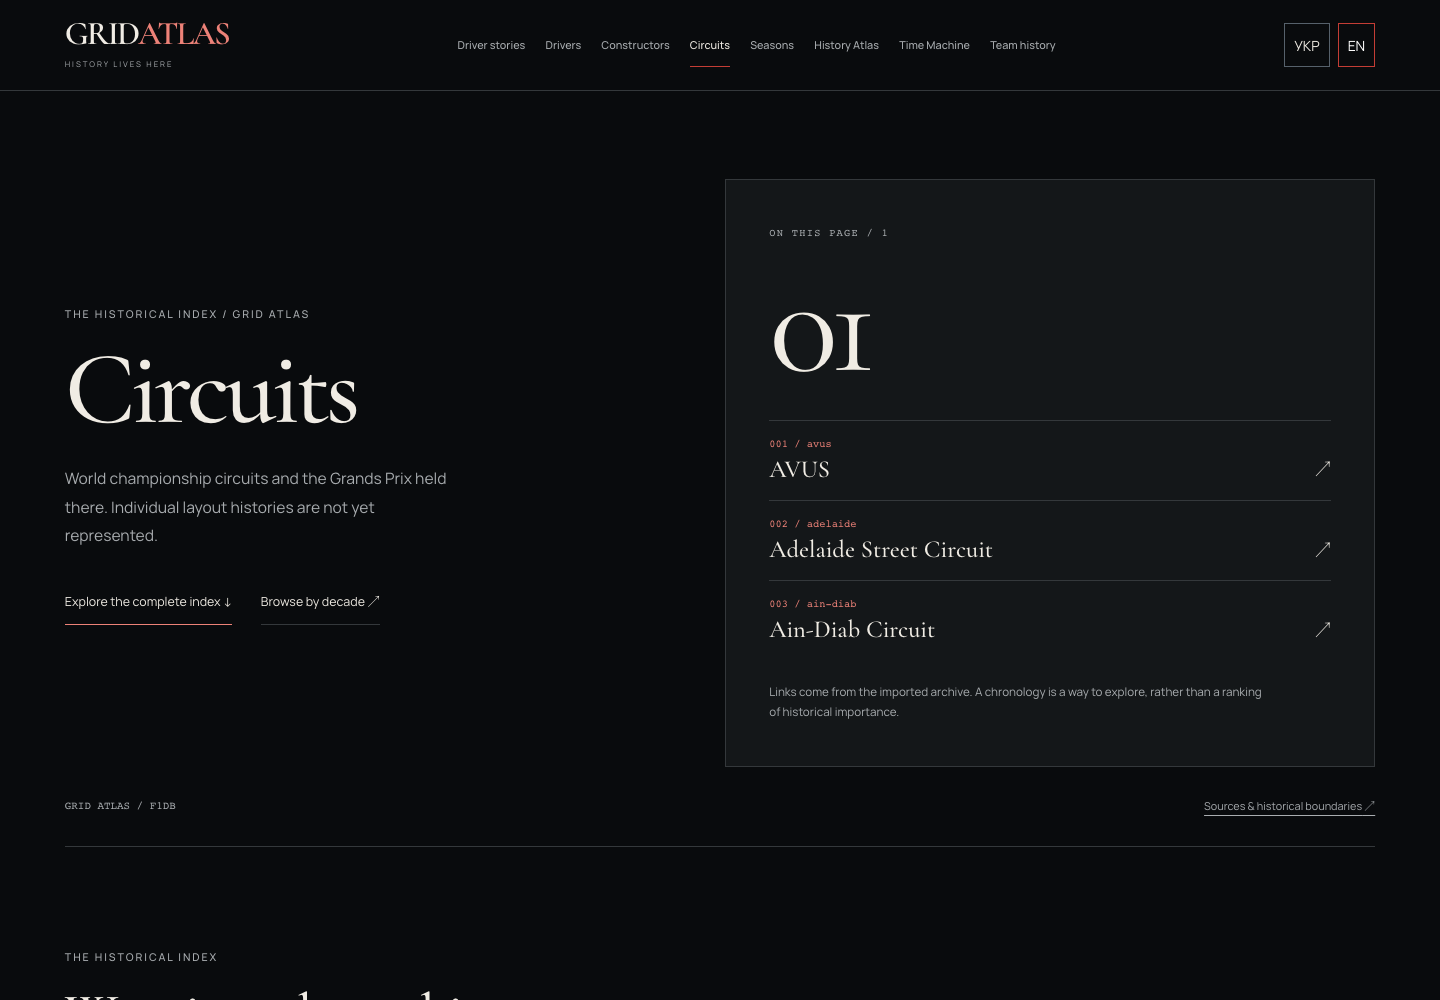
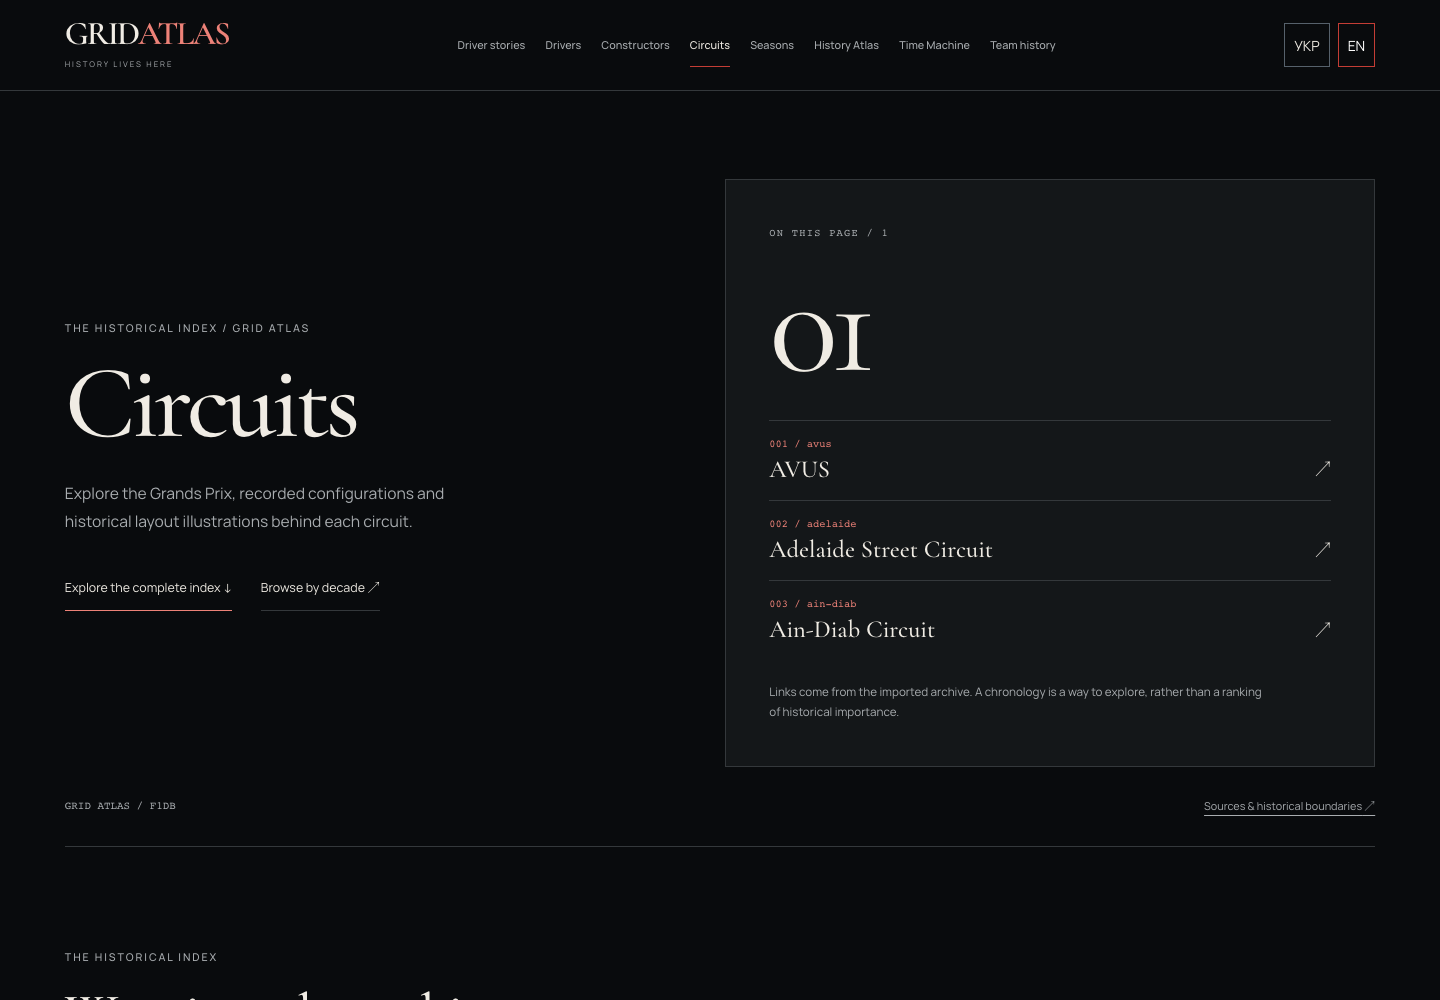
docs(delivery): finalize verified archive and visual acceptance evidence

diff --git a/docs/design/unified-archive/verification.md b/docs/design/unified-archive/verification.md
@@ -4,7 +4,8 @@
 production approval. PR A is [#222](https://github.com/vlovers/grid-atlas/pull/222),
 commit `77fe1456c0bdda37d2f6c2faa463b72f8438dadb`, merged externally as
 `90b401035896a988c29557835a3fab4c3e457fa4`. Its four CI jobs passed.
-The visual/media batch is based on main `41612ad`, preserving the reliability,
+The visual/media batch is PR [#255](https://github.com/vlovers/grid-atlas/pull/255),
+integrating main through `ffd9656` and preserving the reliability,
 SVG-cover and Commons research changes merged during implementation.
 
 ## Reproduced failures and root causes
@@ -73,22 +74,30 @@ history instead of claiming it is absent.
 
 The reproducible stack uses Node 24, locked pnpm dependencies, production Next/API
 builds and PostgreSQL. Browser fixtures use owned schemas; genuine acceptance
-uses pinned F1DB v2026.17.0. Final browser/coverage results are recorded after the
-last run; CI is checked against the published PR head.
+uses pinned F1DB v2026.17.0. The full and genuine browser runs cover the final application changes except
+the subsequent circuit-description correction; the 24-case visual run and 36
+captures use the final copy. Later merged changes affect only offline Commons
+reporting; all 212 Node tests were rerun after integration.
+[CI checks](https://github.com/vlovers/grid-atlas/pull/255/checks) are authoritative
+for the published PR head.
 
 | Check | Result |
 | --- | --- |
 | Lint | Passed |
 | TypeScript | Passed |
 | Production API/web build | Passed |
-| Node tests | 203 passed |
+| Node tests | 212 passed |
 | Offline Python/database/import/media tests | 364 passed |
 | API/PostgreSQL integration | 42 passed; one existing skip |
-| Full production browser suite | Final run in progress |
-| Genuine-import browser suite | Final run in progress |
-| Dedicated Chromium/mobile/WebKit visual acceptance | Final run pending |
-| Exhaustive pinned archive/API/page/link audit | Final run in progress |
+| Full production browser suite | 492 passed; zero retries |
+| Genuine-import browser suite | 120 passed |
+| Dedicated Chromium/mobile/WebKit visual acceptance | 24 passed |
+| Exhaustive pinned archive/API/page/link audit | Passed: 11,504 API requests; 2,364 localized profiles; 2,406 pages; 73,068 links; all 1,172 race and 27,665 result rows compared; zero failures |
 | Real screenshots | 36 captures passed across nine templates, EN desktop / UK mobile, Chromium / WebKit |
+
+The [archive coverage report](archive-coverage.json) preserves the complete
+acceptance counts and declared limits. Foundation checks, documentation links
+and read-only repository/media audits also pass; publication assets remain zero.
 
 The full browser suite includes main's four-locale/project circuit stress cases
 and the installed-vendored-renderer regression, plus direct navigation, internal

diff --git a/docs/design/unified-archive/README.md b/docs/design/unified-archive/README.md
@@ -1,6 +1,6 @@
 # Unified archive experience and media foundation
 
-Initial audit base: main `c30d657`; rebased onto `41612ad` after concurrent media
+Initial audit base: main `c30d657`; integrated main through `ffd9656` after concurrent media
 and reliability merges. This is the visual/media batch paired with reliability
 PR [#222](https://github.com/vlovers/grid-atlas/pull/222). PR A was merged externally after its CI rerun passed. This branch targets current
 main and preserves the newly merged SVG covers and research-ingestion tools. Both use the same genuine pinned F1DB import for acceptance.
@@ -16,7 +16,7 @@ statistics, tabs, section headings and source attribution now cover:
   link the first/latest recorded seasons. Empty/search states retain the complete
   index behavior. Failed optional discovery does not remove the searchable index.
 - `/uk|en/seasons`: existing interactive decade browser plus a complete static
-  decade index, so every recorded season remains linkable with or without JS.
+  decade index, so every recorded season has a link independently of the selected decade.
 - `/uk|en/seasons/:year`: calendar cover, imported-field statistics, section
   navigation and reading guidance. Source championship classifications remain
   separate from race-result sums.
